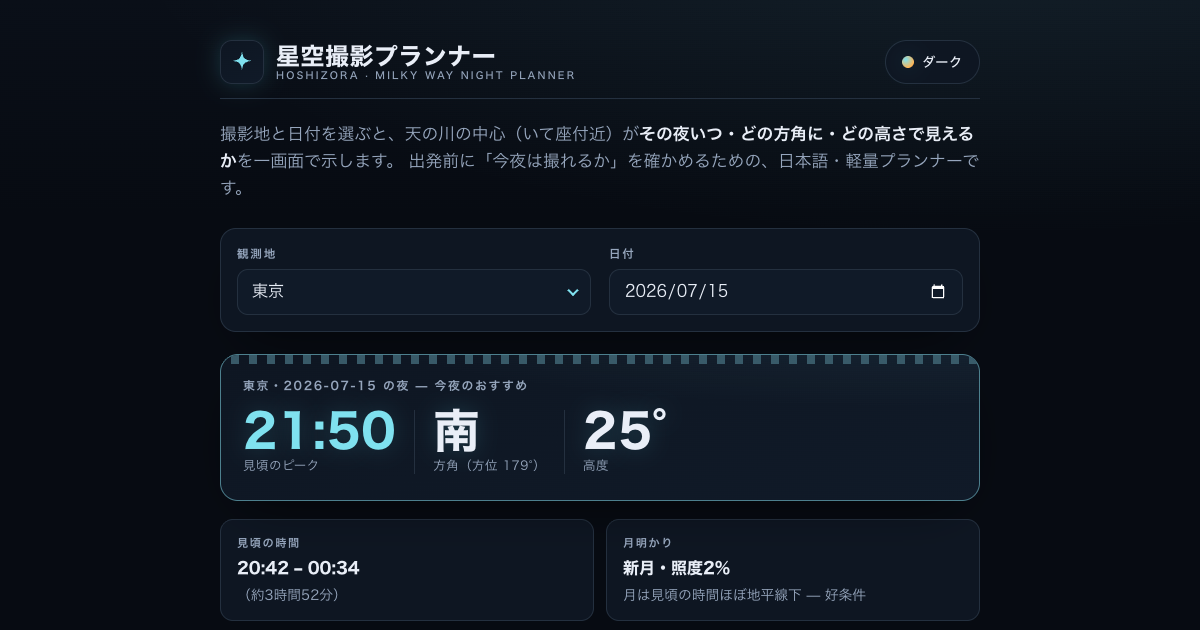
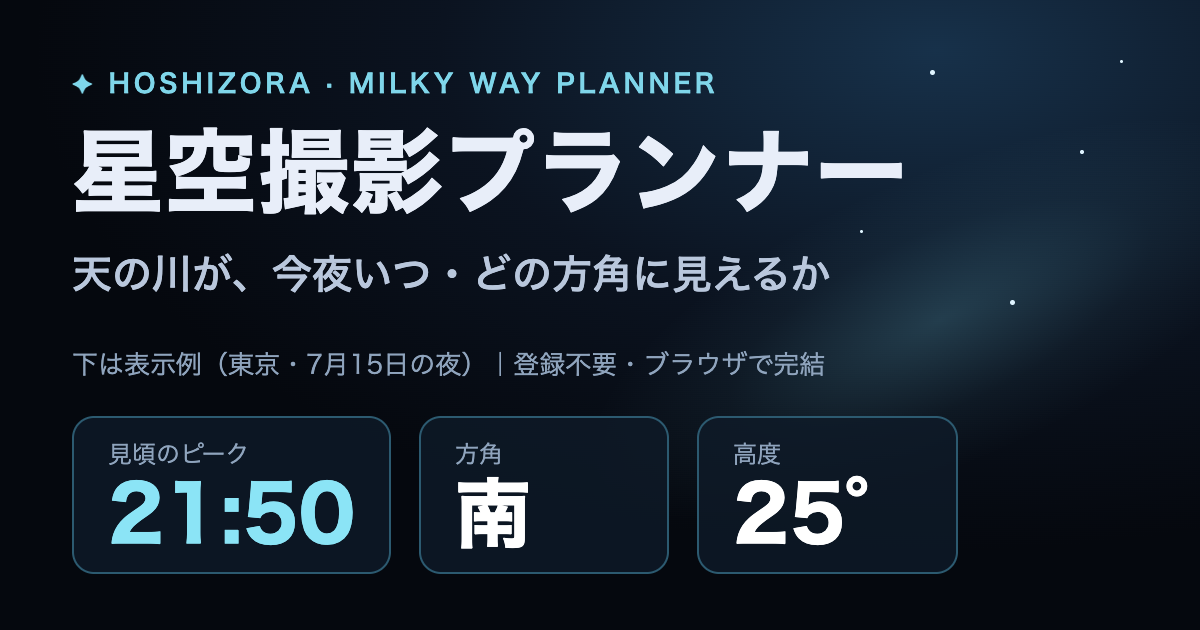
seo(hoshizora-planner): aboutのcanonical修正・404除外・SNSカードを専用構図に
レビュー指摘: layoutのcanonical/og:urlがaboutと404に継承されていた。aboutはopenGraph/twitterを
全項目で明示（deep-mergeされないため）。og.pngは縮小表示でも読める専用構図に作り直し。

diff --git a/app/about/page.tsx b/app/about/page.tsx
@@ -1,9 +1,26 @@
 import type { Metadata } from "next";
+import { OG_IMAGE, SITE_URL } from "../site";
+
+const title = "計算の考え方・免責・プライバシー — 星空撮影プランナー";
+const description =
+  "星空撮影プランナーの天文計算の考え方、可視の目安としての免責事項、アクセス解析（cookieなし）についてのプライバシーの説明。";
 
 export const metadata: Metadata = {
-  title: "計算の考え方・免責・プライバシー — 星空撮影プランナー",
-  description:
-    "星空撮影プランナーの天文計算の考え方、可視の目安としての免責事項、アクセス解析（cookieなし）についてのプライバシーの説明。",
+  title,
+  description,
+  // layout の canonical / og:url はトップ用。about は独立ページなので自身を指す。
+  alternates: { canonical: "/about/" },
+  // openGraph / twitter は layout と deep-merge されず丸ごと置換されるため、全項目を書く。
+  openGraph: {
+    title,
+    description,
+    type: "website",
+    locale: "ja_JP",
+    siteName: "星空撮影プランナー",
+    url: `${SITE_URL}about/`,
+    images: [OG_IMAGE],
+  },
+  twitter: { card: "summary_large_image", title, description, images: [OG_IMAGE] },
 };
 
 export default function About() {

diff --git a/app/layout.tsx b/app/layout.tsx
@@ -1,18 +1,11 @@
 import type { Metadata } from "next";
 import type { ReactNode } from "react";
 import "./globals.css";
-import { SITE_URL } from "./site";
+import { OG_IMAGE, SITE_URL } from "./site";
 
 const title = "星空撮影プランナー — 天の川が今夜いつ・どの方角に見えるか";
 const description =
   "撮影地と日付を選ぶだけで、天の川の中心が今夜いつ・どの方角に・どの高さで見えるかを一画面で表示。月明かりの影響もわかる、日本語の星景撮影プランナー（ブラウザ完結・登録不要）。";
-
-const ogImage = {
-  url: "og.png",
-  width: 1200,
-  height: 630,
-  alt: "星空撮影プランナー — 天の川の中心が今夜いつ・どの方角に見えるか",
-};
 
 export const metadata: Metadata = {
   metadataBase: new URL(SITE_URL),
@@ -36,9 +29,9 @@ export const metadata: Metadata = {
     locale: "ja_JP",
     siteName: "星空撮影プランナー",
     url: SITE_URL,
-    images: [ogImage],
+    images: [OG_IMAGE],
   },
-  twitter: { card: "summary_large_image", title, description, images: [ogImage] },
+  twitter: { card: "summary_large_image", title, description, images: [OG_IMAGE] },
   robots: { index: true, follow: true },
 };
 

diff --git a/app/site.ts b/app/site.ts
@@ -9,3 +9,11 @@ const BASE_PATH = process.env.NEXT_PUBLIC_BASE_PATH || "";
 
 /** 公開サイトのルート URL（末尾スラッシュ付き。trailingSlash: true の出力に合わせる）。 */
 export const SITE_URL = `${ORIGIN}${BASE_PATH}/`;
+
+/** SNS カード画像（public/og.png）。url は metadataBase 起点の相対。 */
+export const OG_IMAGE = {
+  url: "og.png",
+  width: 1200,
+  height: 630,
+  alt: "星空撮影プランナーの表示例。東京・7月15日の夜、天の川の中心は21:50ごろ南の高度25度に見える",
+};

diff --git a/app/not-found.tsx b/app/not-found.tsx
@@ -4,6 +4,8 @@ import type { Metadata } from "next";
 export const metadata: Metadata = {
   title: "404 — 星空撮影プランナー",
   robots: { index: false, follow: false },
+  // layout の canonical はトップ用。404 はトップの複製ではないので外す。
+  alternates: { canonical: null },
 };
 
 // サブパス配信では絶対パス "/" がドメイン直下に解決されてしまうため、
